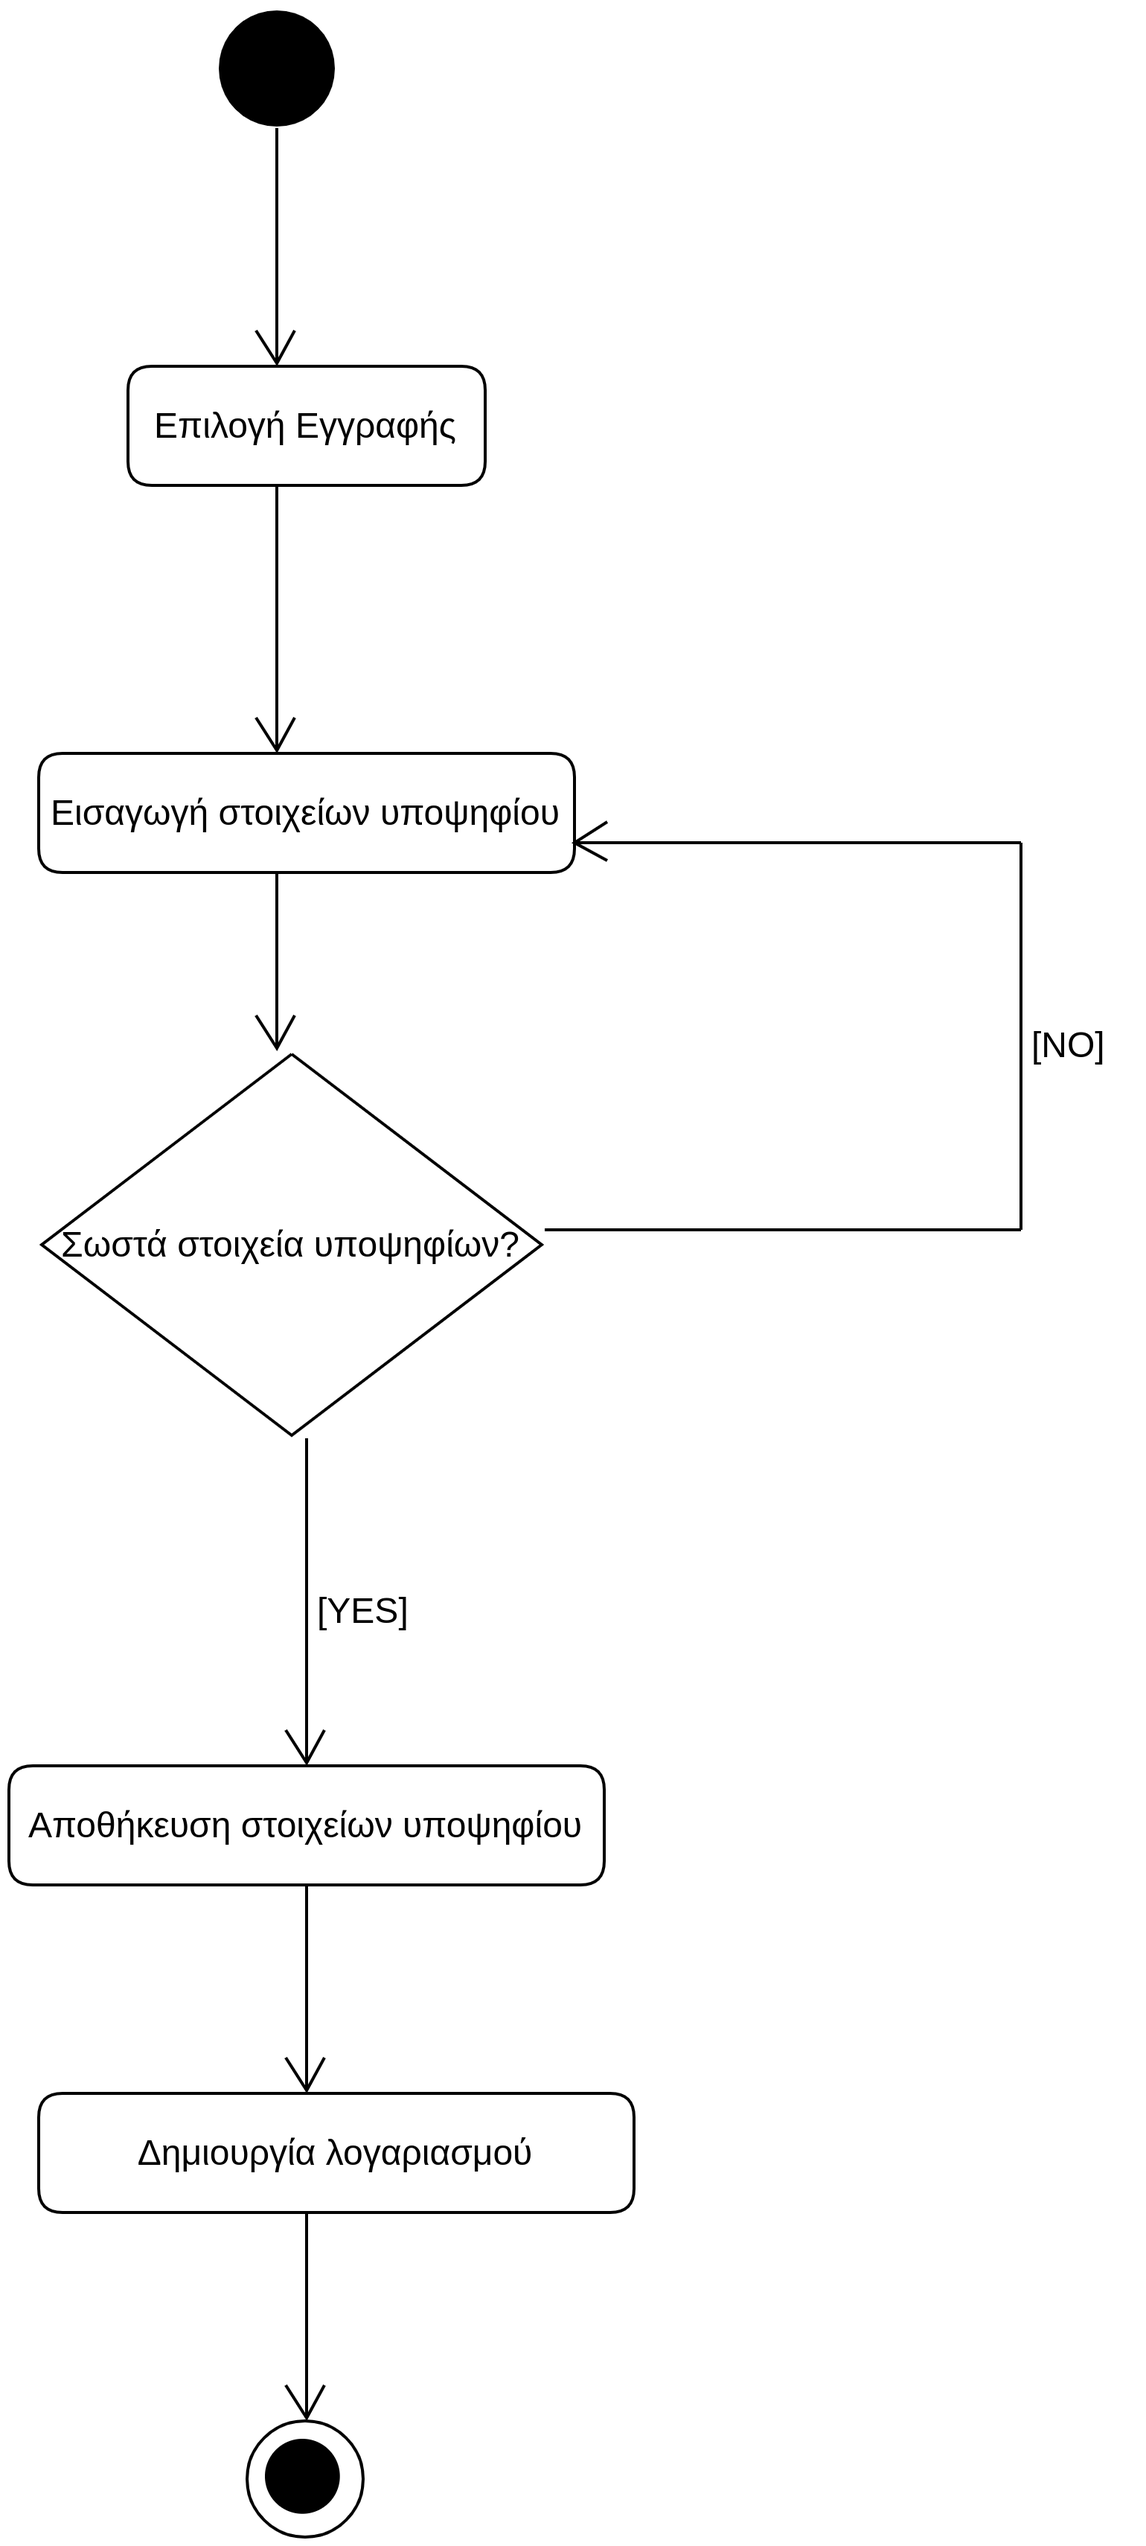
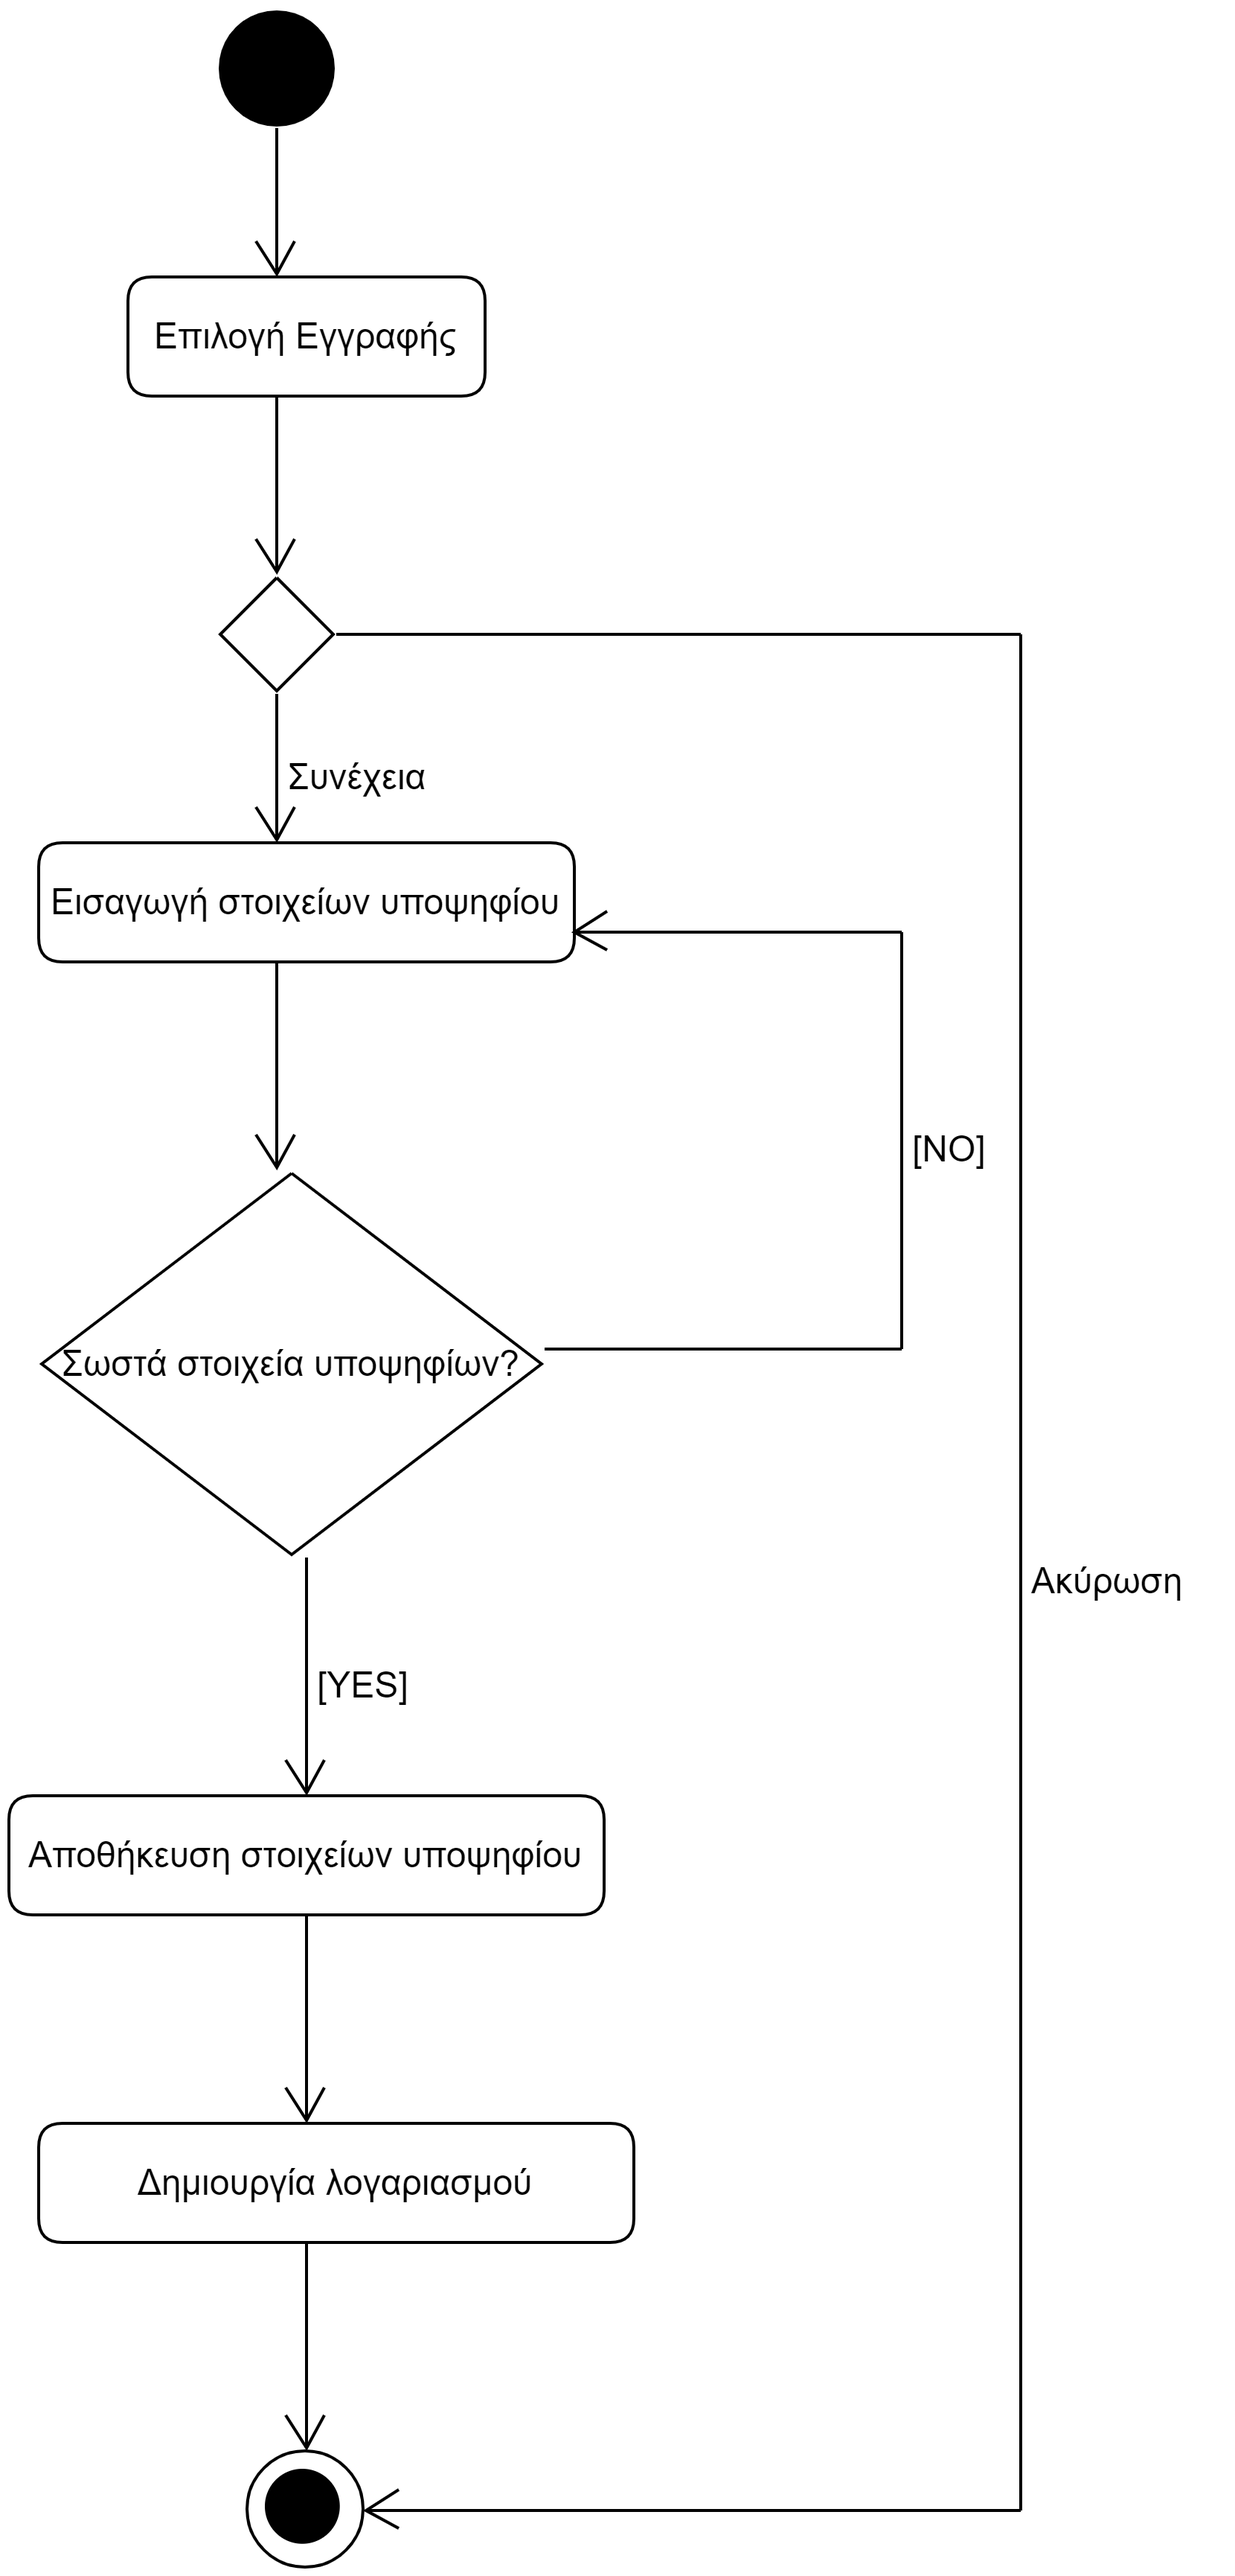
use cases and activity diagrams 3,4,9

diff --git a/docs/markdown/uc9-view-stats.md b/docs/markdown/uc9-view-stats.md
@@ -5,19 +5,17 @@
 **Ενδιαφερόμενος**: Θέλει να μπορεί να δει τις βάσεις εισαγωγής των σχολών, καθώς και άλλα στατιστικά στοιχεία.
 
 ## Βασική Ροή
-1. 
-2. 
-3. 
-4. 
-5. 
-6. 
-7. 
+1. Η εφαρμογή εμφανίζει τα επιστημονικά πεδία των εξετάσεων και τα συνολικά στατιστικά.
+2. Ο ενδιαφερόμενος επιλέγει το επιστημονικό πεδίο για το οποίο θέλει να δει τις βάσεις εισαγωγής.
+3. Η εφαρμογή εμφανίζει με φθίνουσα σειρά (ως προς τη βαθμολογία) τα τμήματα και τη βάση εισαγωγής τους.
 
 **Εναλλακτικές Ροές**
 
-*3α. .*
-1. 
+*2α. Ο ενδιαφερόμενος επιλέγει να δει τα συνολικά στατιστικά.*
+1. Η εφαρμογή εμφανίζει τα συνολικά στατιστικά των εξετάσεων.
 
+*2β. Ο υποψήφιος επιλέγει "Ακύρωση".*
+1. Η ΠΧ τερματίζει.
 
 
 ## Διαγράμματα 

diff --git a/docs/markdown/uc3-submit-preferred-departments.md b/docs/markdown/uc3-submit-preferred-departments.md
@@ -16,13 +16,13 @@
 **Εναλλακτικές Ροές**
 
 *3α. Ο υποψήφιος επιλέγει "Ακύρωση".*
-1. Το σύστημα επιστρέφει τον χρήστη στην αρχική σελίδα.
+1. Η ΠΧ τερματίζει.
 
 *4α. Ο υποψήφιος επιλέγει "Ακύρωση".*
-1. Το σύστημα επιστρέφει τον χρήστη στην αρχική σελίδα.
+1. Η ΠΧ τερματίζει.
 
 *6α. Ο υποψήφιος επιλέγει "Έξοδος".*
-1. Το σύστημα επιστρέφει τον χρήστη στην αρχική σελίδα.
+1. Η ΠΧ τερματίζει.
 
 *6β. Ο υποψήφιος επιλέγει "Προσωρινή Αποθήκευση".*
 1. Το μηχανογραφικό αποθηκεύεται προσωρινά (δεν υποβάλλεται οριστικά).

diff --git a/docs/markdown/uc4-search-departments.md b/docs/markdown/uc4-search-departments.md
@@ -14,11 +14,14 @@
 **Εναλλακτικές Ροές**
 
 *2α. Ο υποψήφιος επιλέγει "Ακύρωση".*
-1. Το σύστημα επιστρέφει τον χρήστη στην αρχική σελίδα.
+1. Η ΠΧ τερματίζει.
 
-*4α. Ο υποψήφιος επιλέγει "Ακύρωση".*
-1. Το σύστημα επιστρέφει τον χρήστη στην αρχική σελίδα.
+*3α. Δεν υπάρχουν τμήματα που να συμφωνούν με τα κριτήρια αναζήτησης.*
+1. Το σύστημα εμφανίζει μήνυμα σφάλματος.
+2. Η ΠΧ επιστρέφει στο βήμα 1 της βασικής ροής.
 
+*4α. Ο υποψήφιος επιλέγει "Έξοδος".*
+1. Η ΠΧ τερματίζει.
 
 
 ## Διαγράμματα 

diff --git a/docs/markdown/uc2-user-create-account.md b/docs/markdown/uc2-user-create-account.md
@@ -14,7 +14,7 @@
 **Εναλλακτικές Ροές**
 
 *3α. Ο χρήστης επιλέγει "Ακύρωση".*
-1. Το σύστημα επιστρέφει τον χρήστη στην αρχική σελίδα.
+1. Η ΠΧ τερματίζει.
 
 *4α. Ο χρήστης αφήνει κενό πεδίο ή εισάγει λανθασμένα στοιχεία (πχ μικρό μήκος password)*
 1. Το σύστημα εμφανίζει μήνυμα σφάλματος.
